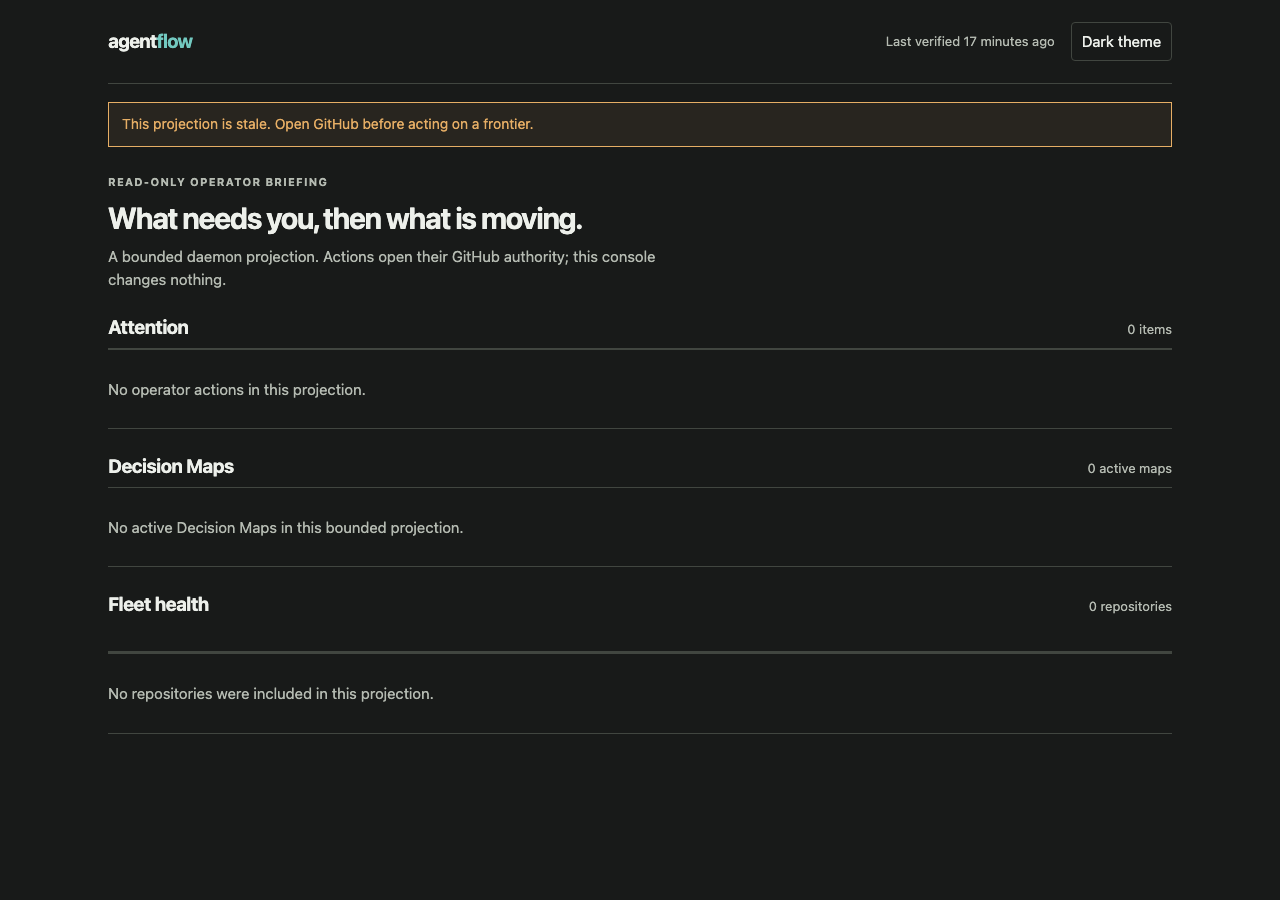
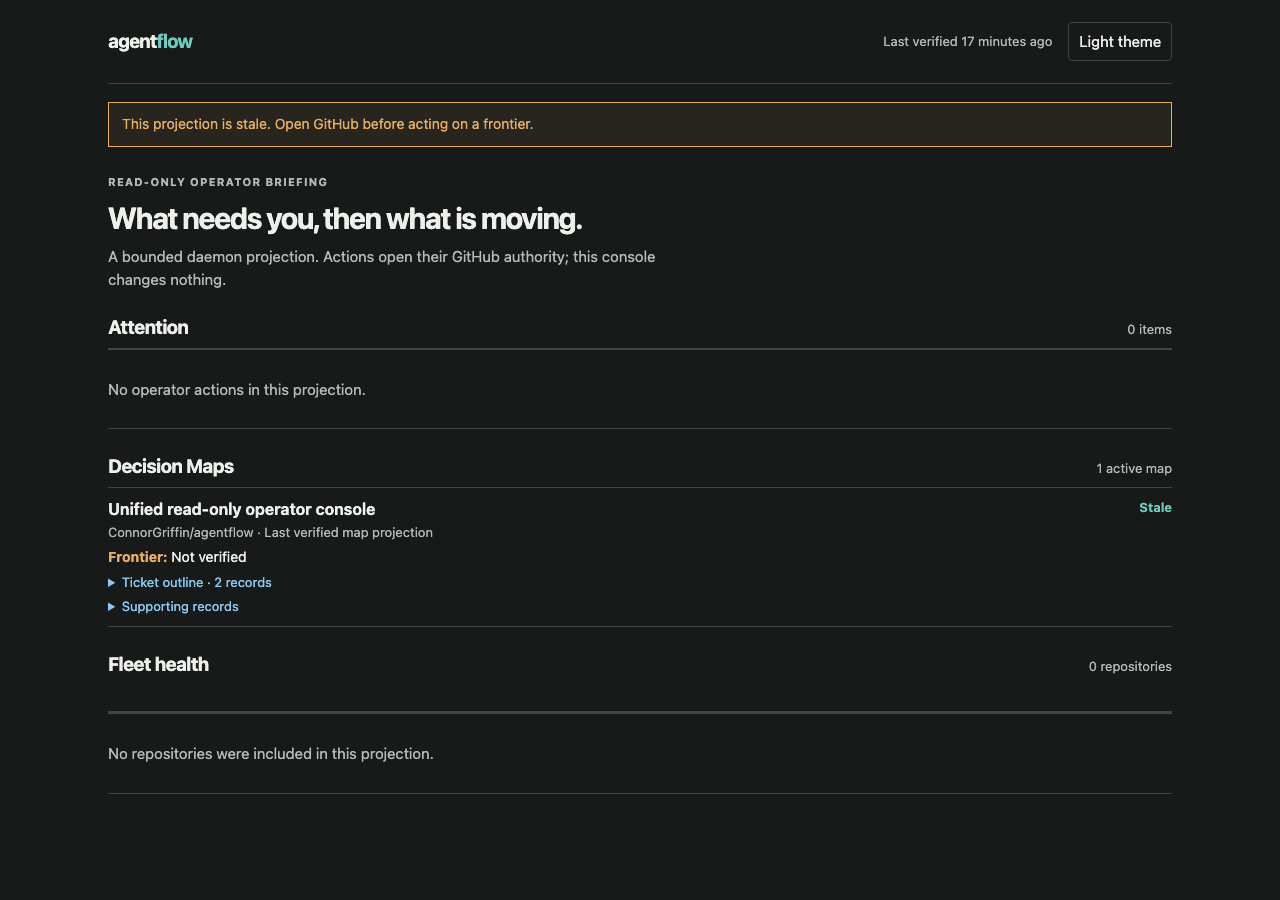
fix: keep stale frontiers unverified

diff --git a/mockups/operator-surface-finalist.html b/mockups/operator-surface-finalist.html
@@ -55,7 +55,8 @@ Chosen after Alex, Sam, and AFK-glance operator walkthroughs: it completed the b
       $('attention').innerHTML = attention.length ? attention.map(item => `<article class="attention"><span class="kind">${esc(item.kind)}</span><div><h3>${esc(item.title)}</h3><p>${esc(item.detail)}</p></div><a class="action" href="${esc(item.url)}">Open in GitHub ↗</a></article>`).join('') : '<div class="empty">No operator actions in this projection.</div>';
       const maps = data.maps || [];
       $('maps-count').textContent = maps.length + (maps.length === 1 ? ' active map' : ' active maps');
-      $('maps').innerHTML = maps.length ? maps.map(map => `<article class="map"><div class="map-top"><div><h3>${esc(map.title)}</h3><p class="meta">${esc(map.repository)} · ${esc(map.progress)}</p></div><span class="status">${esc(map.status)}</span></div><p class="frontier"><b>Frontier:</b> ${esc(map.frontier || 'Not verified')}</p><details><summary>Ticket outline · ${map.tickets.length} records</summary><ul>${map.tickets.map(t => `<li>${esc(t)}</li>`).join('')}</ul></details><details><summary>Supporting records</summary><div class="support">${map.support.map(s => `<a href="${esc(s.url)}">${esc(s.label)} ↗</a>`).join('')}</div></details></article>`).join('') : '<div class="empty">No active Decision Maps in this bounded projection.</div>';
+      const frontierVerified = freshness.state !== 'stale' && freshness.state !== 'incomplete';
+      $('maps').innerHTML = maps.length ? maps.map(map => `<article class="map"><div class="map-top"><div><h3>${esc(map.title)}</h3><p class="meta">${esc(map.repository)} · ${esc(map.progress)}</p></div><span class="status">${esc(map.status)}</span></div><p class="frontier"><b>Frontier:</b> ${esc(frontierVerified ? (map.frontier || 'Not verified') : 'Not verified')}</p><details><summary>Ticket outline · ${map.tickets.length} records</summary><ul>${map.tickets.map(t => `<li>${esc(t)}</li>`).join('')}</ul></details><details><summary>Supporting records</summary><div class="support">${map.support.map(s => `<a href="${esc(s.url)}">${esc(s.label)} ↗</a>`).join('')}</div></details></article>`).join('') : '<div class="empty">No active Decision Maps in this bounded projection.</div>';
       const fleet = data.fleet || [];
       $('fleet-count').textContent = fleet.length + (fleet.length === 1 ? ' repository' : ' repositories');
       $('capacity').innerHTML = (data.capacity || []).map(pool => `<span><b>${esc(pool.name)}</b> ${esc(pool.detail)}</span>`).join('');

diff --git a/tests/test_operator_surface_mockup.py b/tests/test_operator_surface_mockup.py
@@ -14,3 +14,4 @@ def test_operator_surface_spec_binds_only_to_its_capture_and_declares_the_locked
     assert "inline fallback" not in source
     assert "Attention" in source and "Decision Maps" in source and "Fleet health" in source
     assert "<details>" in source and "Open in GitHub" in source
+    assert "freshness.state !== 'stale' && freshness.state !== 'incomplete'" in source
